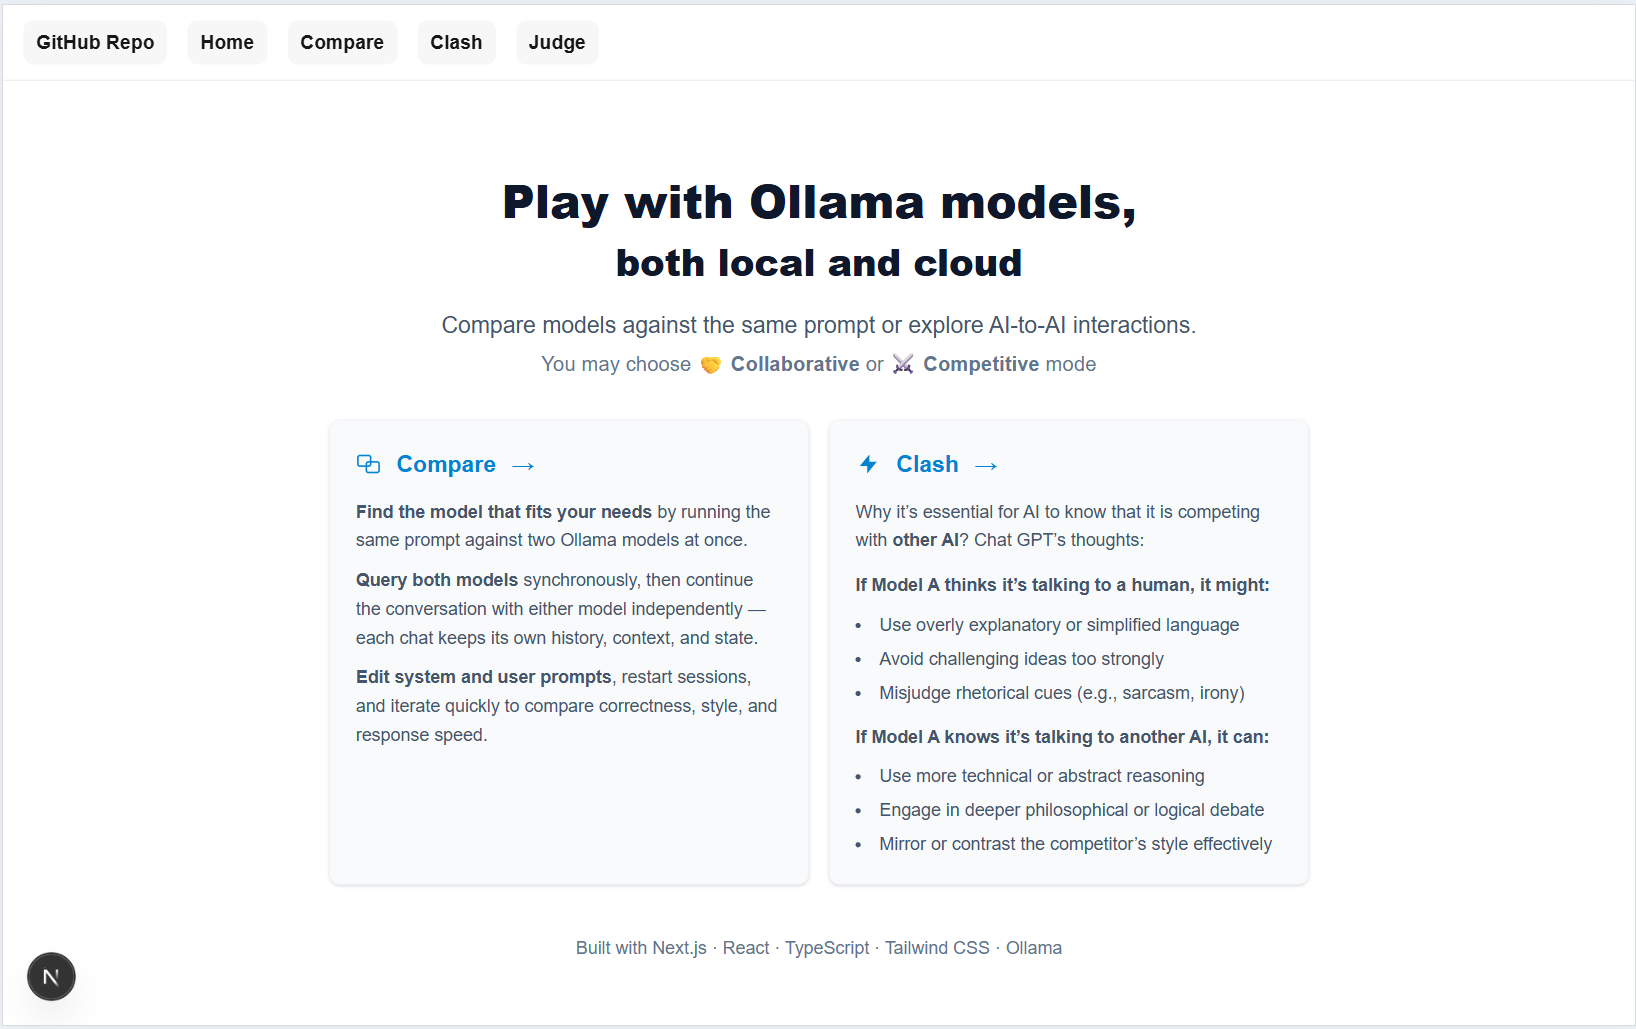
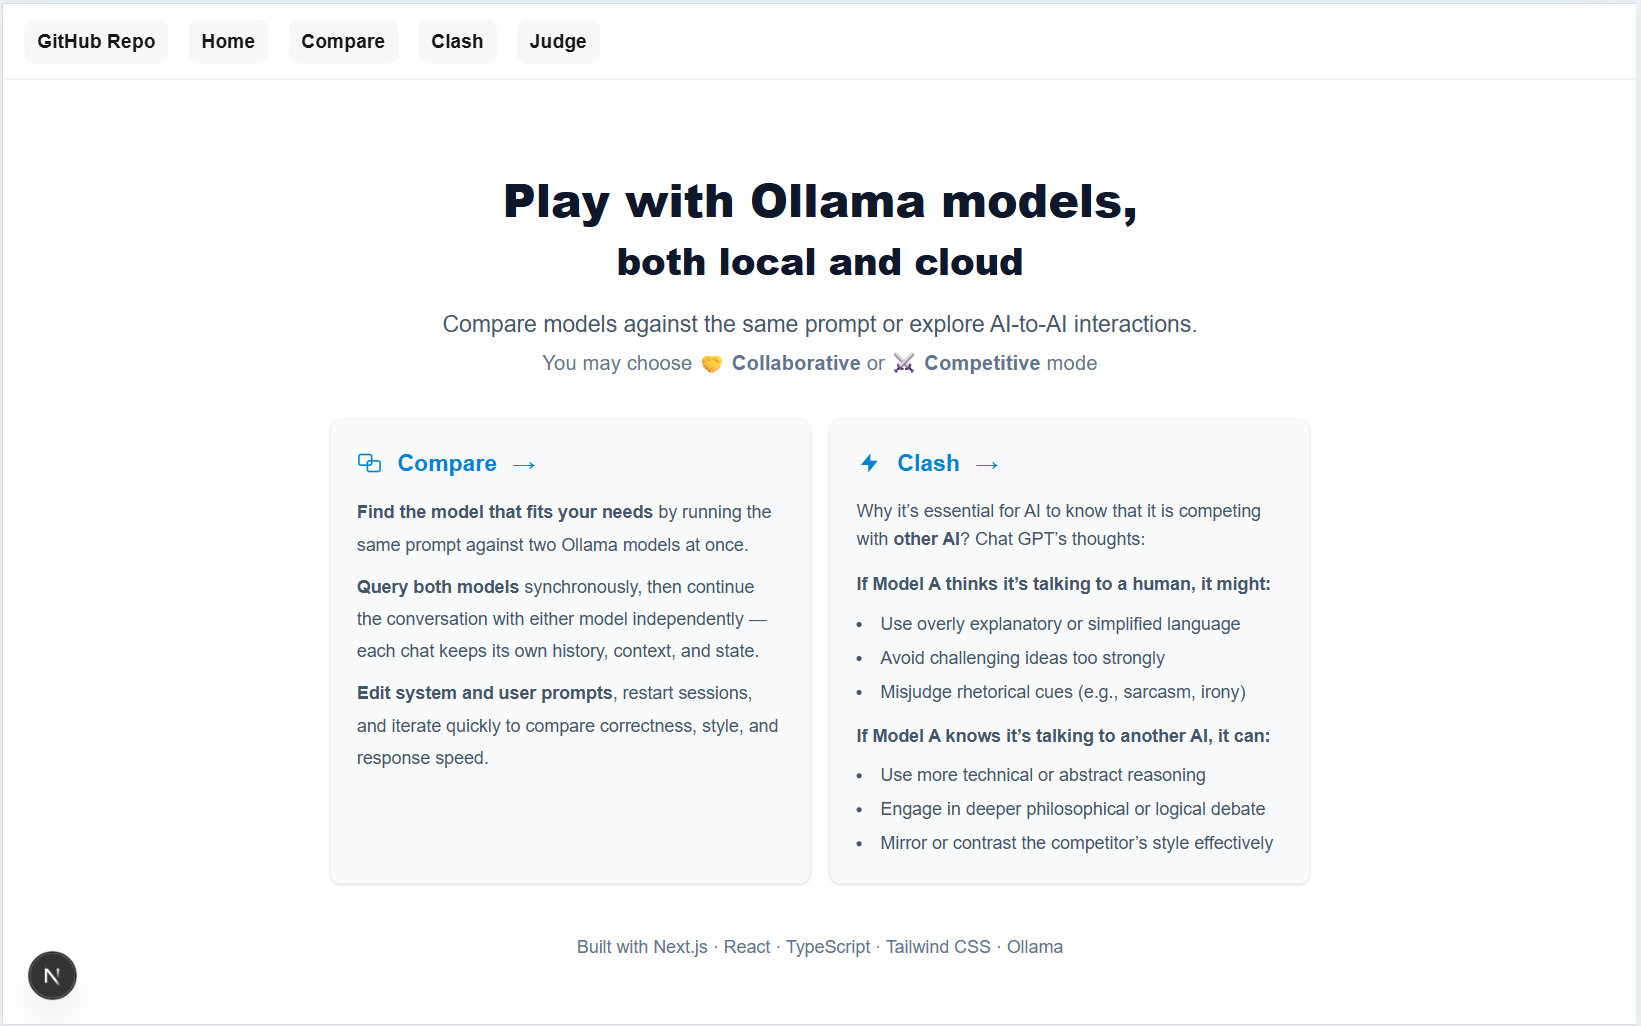
fix line-height in teaser (can't do with tw)

diff --git a/app/page.tsx b/app/page.tsx
@@ -48,7 +48,7 @@ export default function Home() {
               </span>
             </Link>
           </h2>
-          <div className="text-slate-600 leading-relaxed text-sm">
+          <div className="text-slate-600 leading-relaxed text-sm set-line-height">
             <p>
               <b>Find the model that fits your needs</b> by running the same prompt against two Ollama models at once.
             </p>

diff --git a/app/globals.css b/app/globals.css
@@ -58,3 +58,7 @@ body {
   outline: 1px rgba(20, 20, 20, 0.06);
   outline-offset: 2px;
 }
+
+.set-line-height {
+  line-height: 1.8;
+}
